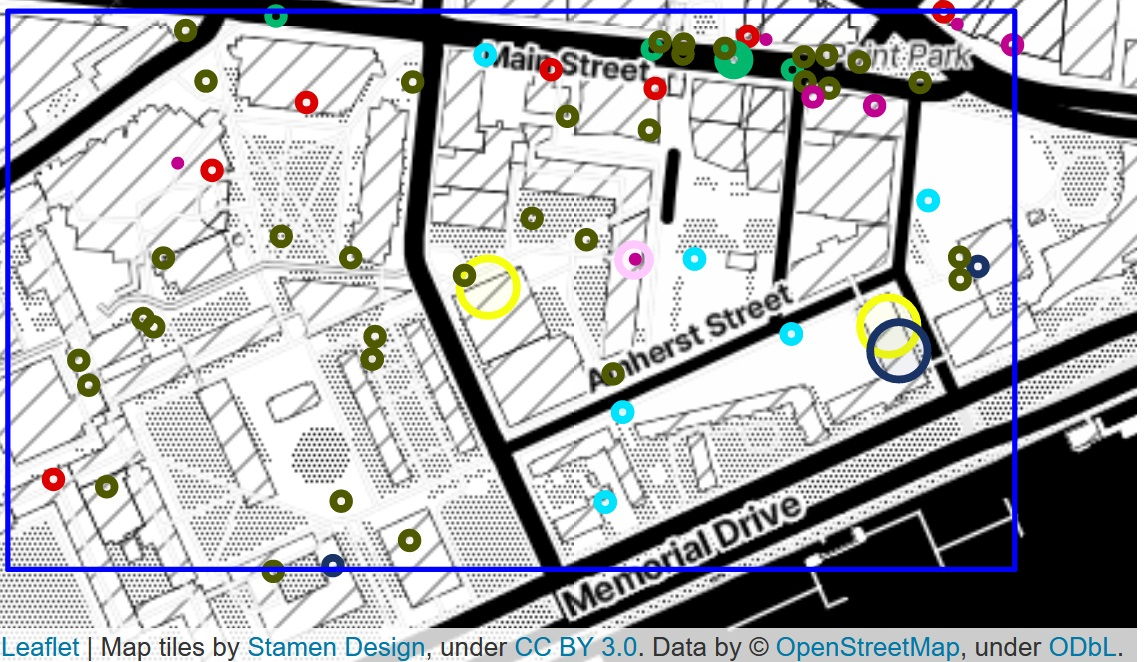
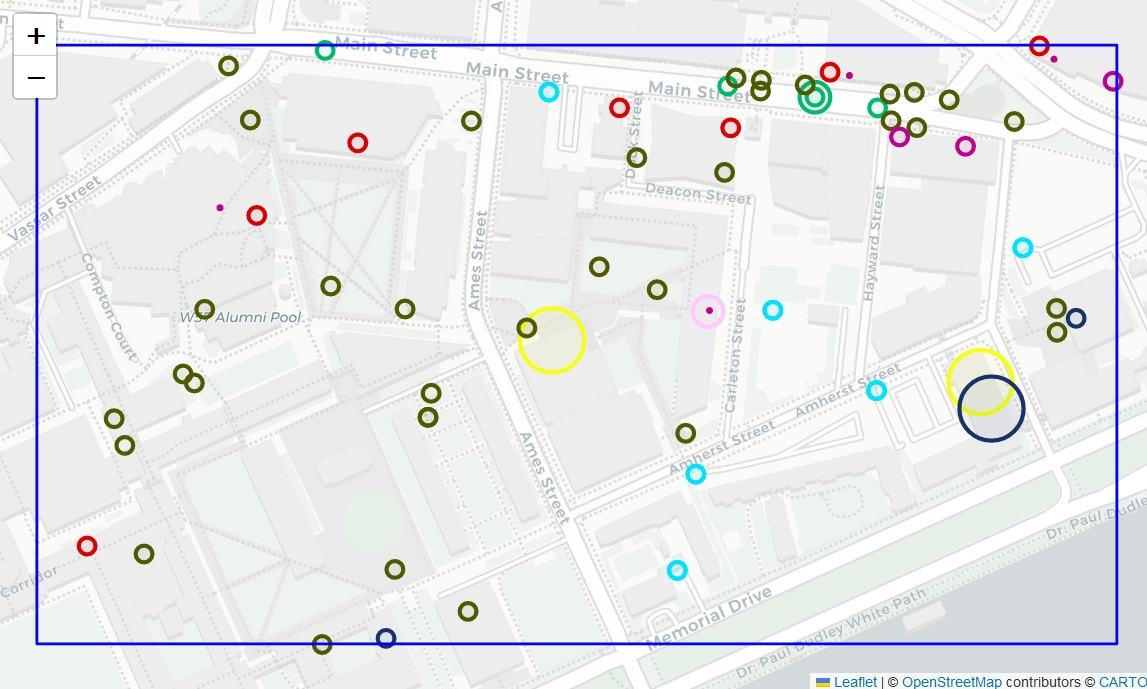
update docs

diff --git a/docs/src/visualize.md b/docs/src/visualize.md
@@ -2,26 +2,25 @@
 
 ## How to visualize the data
 
-The library can be integrated with various vizualisation frameworks. Below we show two example codes that can be a base for further exploration. The first example uses `folium`  via `PyCall` while the second example uses `Plots.jl` combined with [`OpenStreetMapXPlot.jl`](https://github.com/pszufe/OpenStreetMapXPlot.jl).
+The library can be integrated with various vizualisation frameworks. Below we show two example codes that can be a base for further exploration. The first example uses `folium`  via `PythonCall` (`using CondaPkg; CondaPkg.add_channel("conda-forge"); CondaPkg.add("folium")`) while the second example uses `Plots.jl` combined with [`OpenStreetMapXPlot.jl`](https://github.com/pszufe/OpenStreetMapXPlot.jl).
+
 
 ### Point of interest with Python folium via PyCall
 
 Below is a sample piece of code that can be used to generate a visualization of POIs on a map.
 ```julia
-using PyCall
-using Colors
-using OSMToolset
+using PythonCall, Colors, OSMToolset
 
 file = sample_osm_file()
 df = find_poi(file)
 ix = AttractivenessSpatIndex(df);
 
-flm = pyimport("folium");
+flm = PythonCall.pyimport("folium");
 
 colrs = distinguishable_colors(length(ix.measures), [RGB(0.1,0.2,0.4)])
 class2col =  Dict(ix.measures .=> colrs);
 
-m = flm.Map(tiles = "Stamen Toner")
+m = flm.Map(tiles = "Cartodb Positron")
 line = 0
 
 for row in eachrow(df)
@@ -34,7 +33,7 @@ for row in eachrow(df)
 
 end
 bb = getbounds(file)
-bounds = [(bb.minlat, Float64(bb.minlon)), (bb.maxlat, Float64(bb.maxlon))]
+bounds = ((bb.minlat, Float64(bb.minlon)), (bb.maxlat, Float64(bb.maxlon)))
 m.fit_bounds(bounds)
 flm.Rectangle(bounds, color="blue",weight=2).add_to(m)
 
